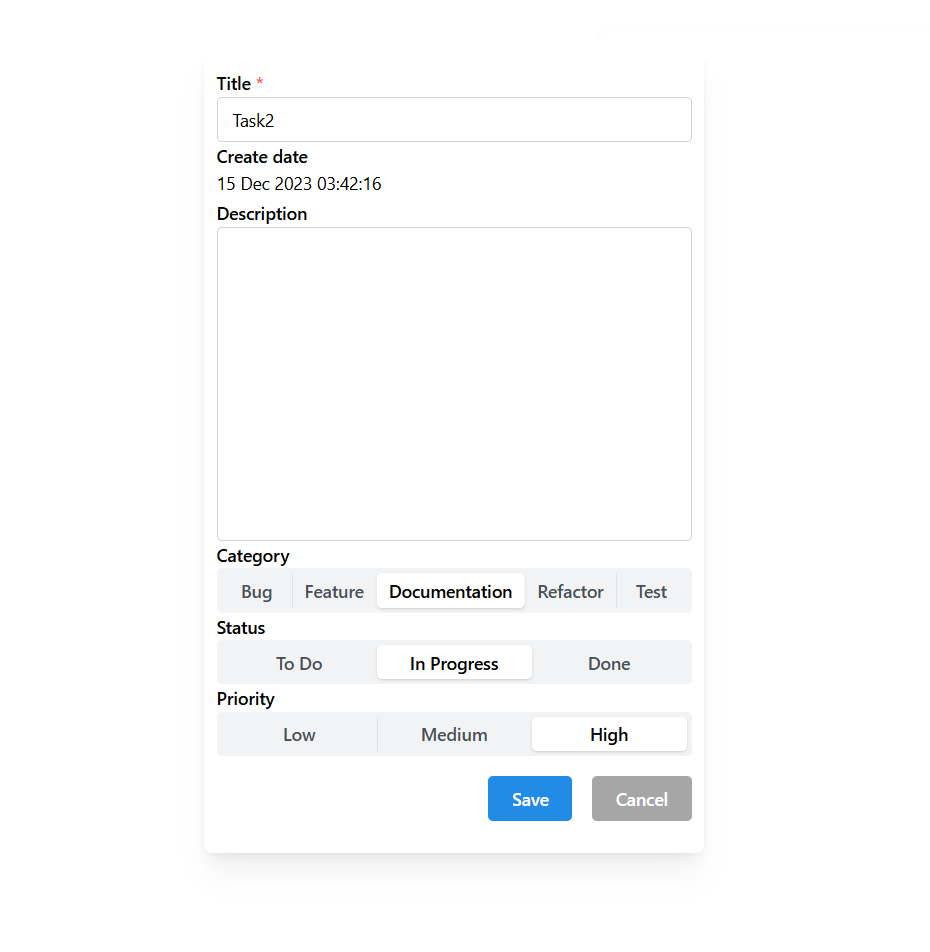
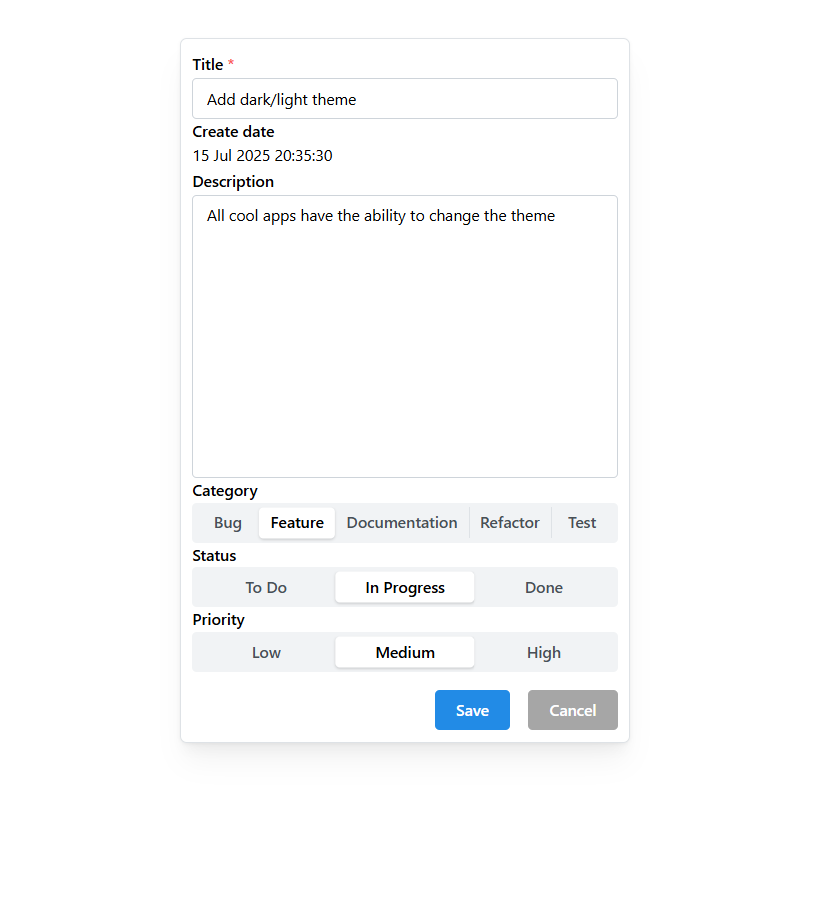
update readme

Changed region(s): [[0.2172, 0.5289, 0.7446, 0.8711], [0.2172, 0.0622, 0.6516, 0.2489], [0.6826, 0.56, 0.7136, 0.6533]]

diff --git a/README.md b/README.md
@@ -3,6 +3,8 @@
 Веб-приложение "Менеджер задач", позволяющее просматривать список задач и редактировать их. 
 ![Главная страница](https://github.com/polinaKoroleva05/taskManager/blob/main/public/mainPage.png)
 ![Страница редактирования задачи](https://github.com/polinaKoroleva05/taskManager/blob/main/public/editPage.png)
+Пользователь может переключиться на темную тему:
+![Главная страница](https://github.com/polinaKoroleva05/taskManager/blob/main/public/mainPageDark.png)
 Для ознакомления проект доступен по ссылке:
 [https://task-manager-peach-rho.vercel.app/](https://task-manager-peach-rho.vercel.app/)
 
@@ -22,7 +24,12 @@
 -  UI-фреймворк: Mantine
 -  Инструменты стилизации: css modules
 -  Плагин для работы с svg: vite-plugin-svgr
--  localStorage для хранения данных между сессиями
+-  Tanstack для управления кэшированием данных от сервера
+
+Сервер [https://github.com/polinaKoroleva05/taskManagerApi](https://github.com/polinaKoroleva05/taskManagerApi):
+ - Для сервера использовался фреймворк Express.js
+ - Cохранение данных в json файл
+ - Сервер поднят на vercel
 
 Приложение использует архитектуру Feature-Sliced Design.
 Использованы следующие слои: App, Pages, Widgets, Shared. Краткое описание каждого слоя (взято с сайта [https://feature-sliced.github.io/documentation/ru/docs/get-started/overview](https://feature-sliced.github.io/documentation/ru/docs/get-started/overview)):
